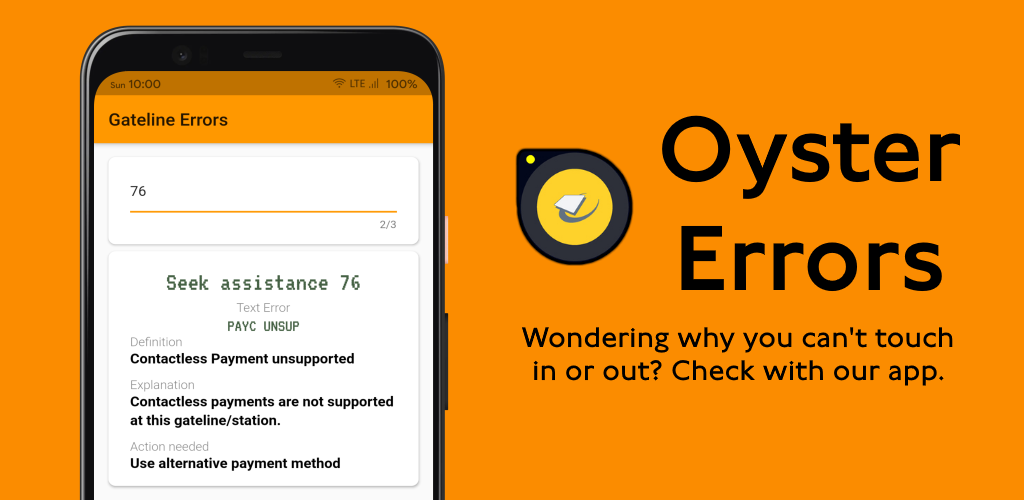
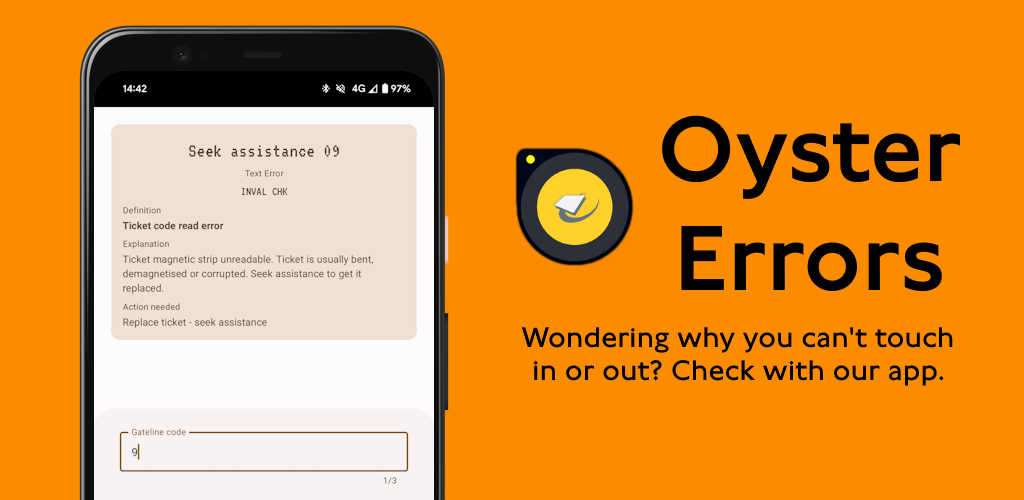
chore: update screenshots

Changed region(s): [[0.0938, 0.12, 0.4375, 0.99]]

diff --git a/README.md b/README.md
@@ -1,7 +1,5 @@
 # Gateline Errors
 
-[![Codacy Badge](https://api.codacy.com/project/badge/Grade/6da4bb8b18ed45ab8199edca85289e7d)](https://app.codacy.com/manual/davwheat/uk_railway_gateline_error_lookup?utm_source=github.com&utm_medium=referral&utm_content=davwheat/uk_railway_gateline_error_lookup&utm_campaign=Badge_Grade_Dashboard)
-
 Ever wondered why a railway ticket barrier doesn't let you through? Look up the error code on our app.
 
 From one number we can provide...
@@ -12,7 +10,7 @@ From one number we can provide...
 
 ## Screenshots
 
-![](docs/img/example_nothing-entered.small.png)
-![](docs/img/example_error-1.small.png)
-![](docs/img/example_error-7.small.png)
-![](docs/img/example_error-76.small.png)
+<img src="docs/img/ss1-bordered.png" width="400" alt="">
+<img src="docs/img/ss2-bordered.png" width="400" alt="">
+<img src="docs/img/ss3-bordered.png" width="400" alt="">
+<img src="docs/img/ss4-bordered.png" width="400" alt="">
